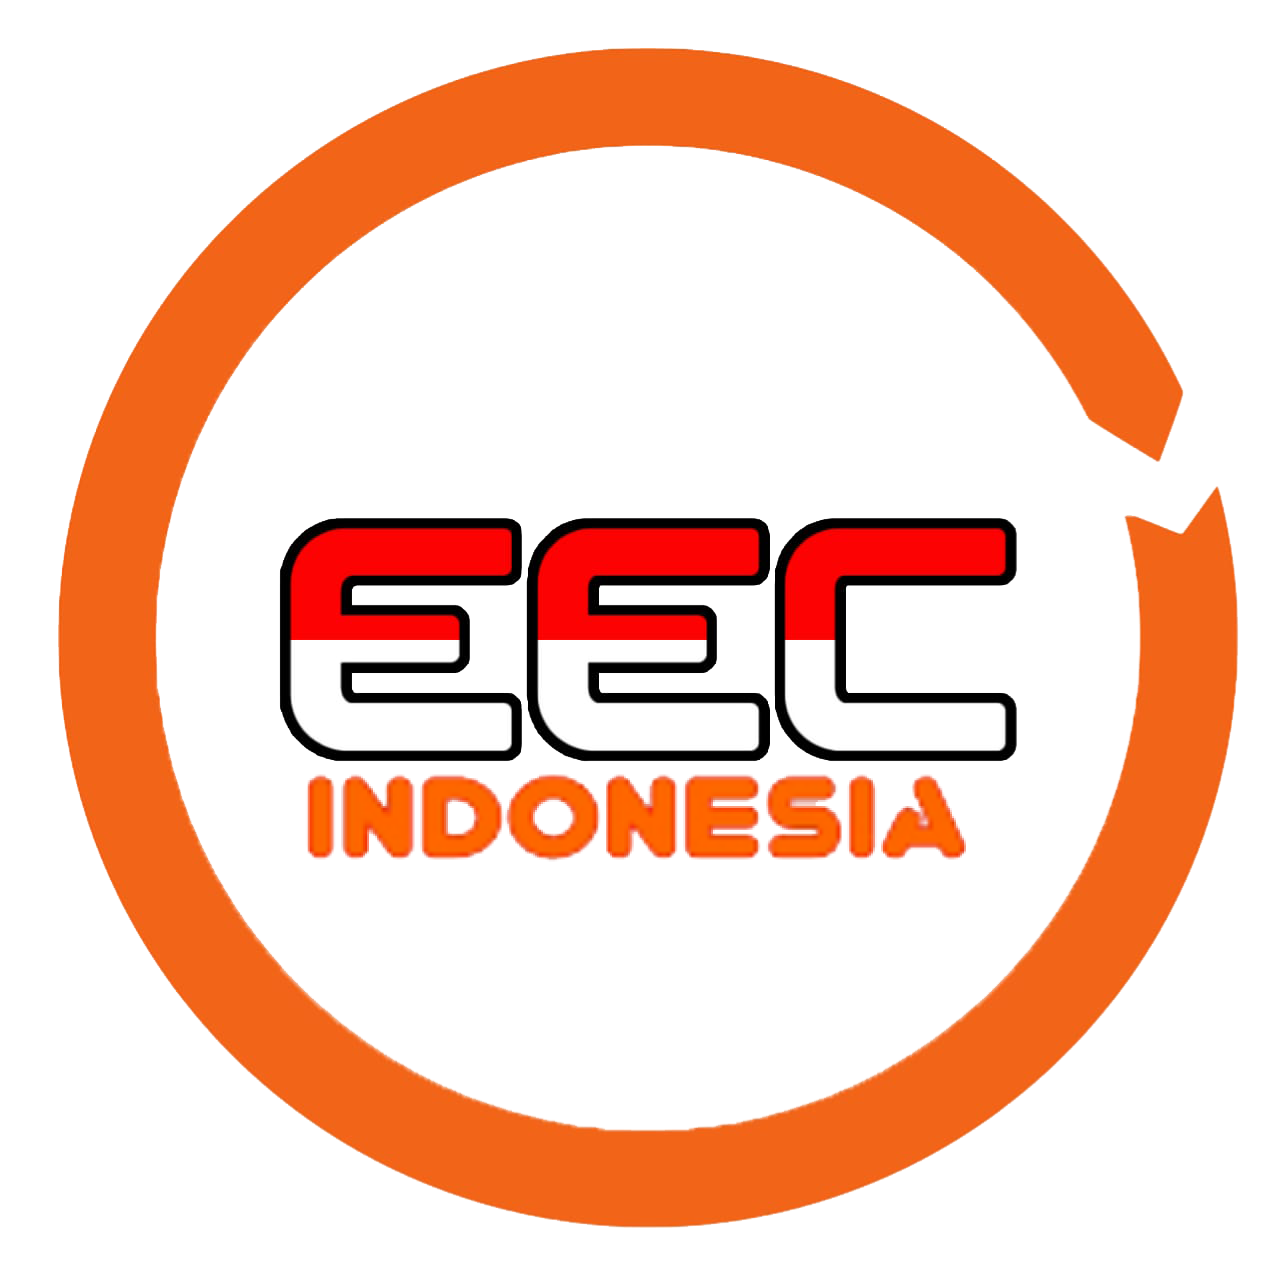
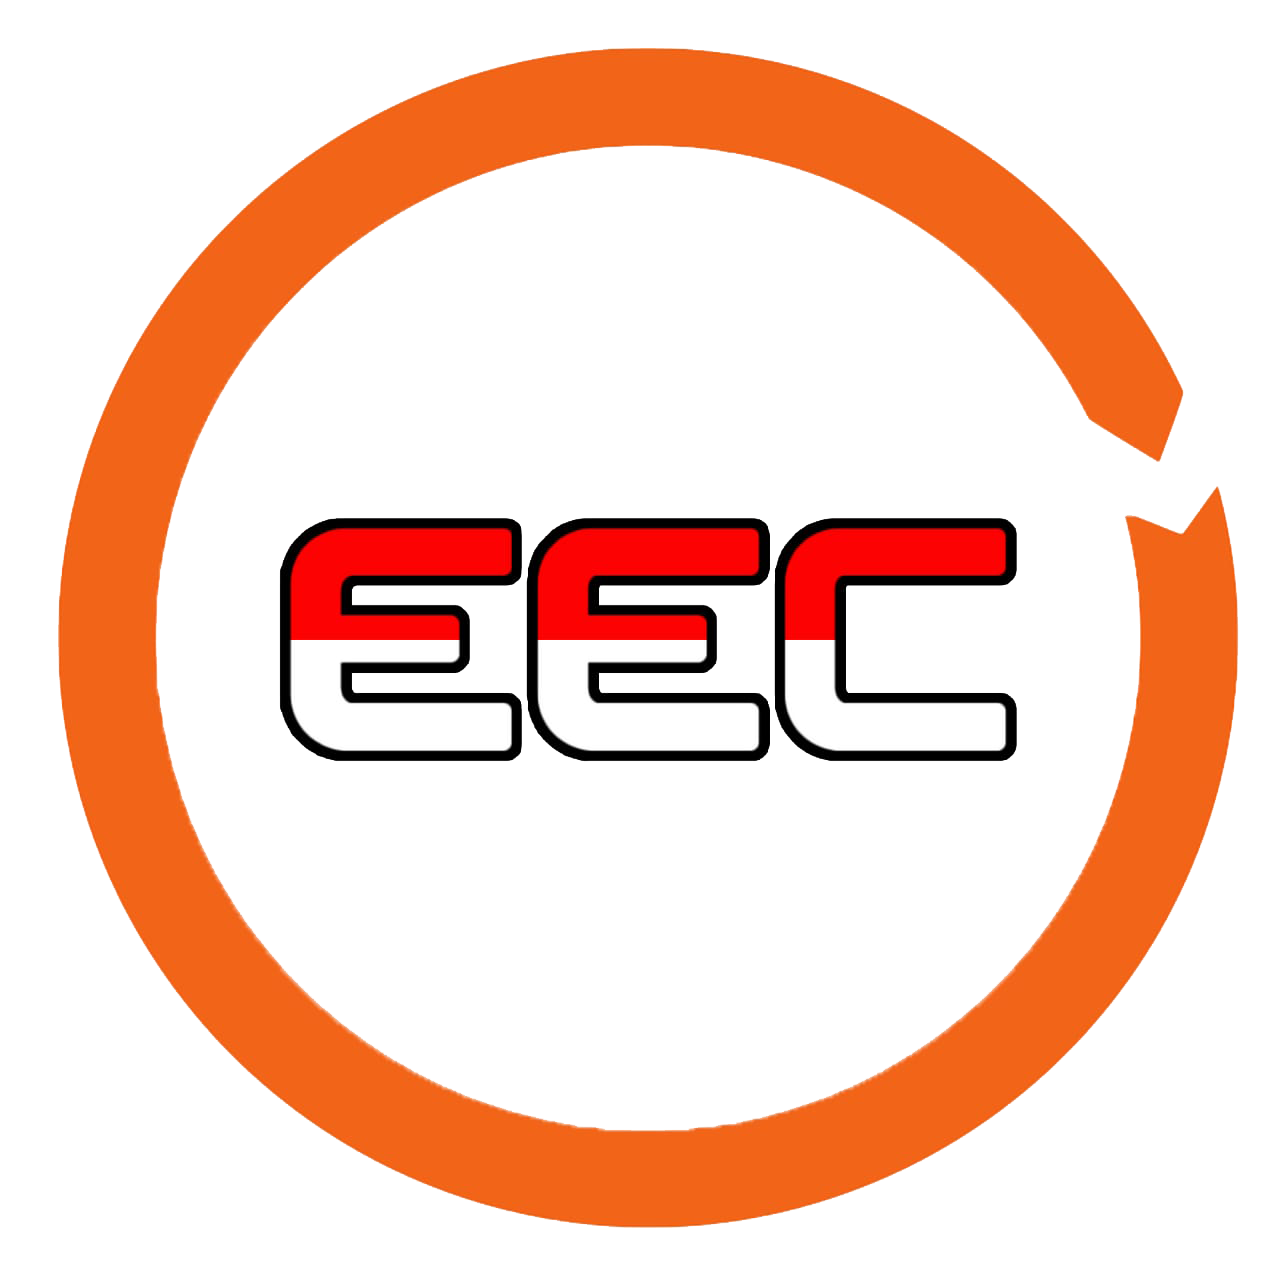
:children_crossing: cleaning up the landing page

Changed region(s): [[0.2188, 0.5938, 0.75, 0.6875]]

diff --git a/public/user/css/style.css b/public/user/css/style.css
@@ -110,5 +110,13 @@ select.distribution:not([size]):not([multiple]) {
 
 .logos{
     width: 150px;
-    height: 150px;
+    height: auto;
+}
+
+.backgrounds{
+    background-repeat: no-repeat;
+    background-size: cover;
+    height: 100%;
+    width: auto;
+    padding: 0;
 }

diff --git a/public/material/css/material-dashboard.css b/public/material/css/material-dashboard.css
@@ -11992,9 +11992,9 @@ fieldset[disabled] .form-group .form-control {
   top: 0;
   content: "";
 }
-.page-header:before {
+/* .page-header:before {
   background-color: rgba(0, 0, 0, 0.3);
-}
+} */
 
 html * {
   -webkit-font-smoothing: antialiased;

diff --git a/public/material/scss/material-dashboard/_headers.scss b/public/material/scss/material-dashboard/_headers.scss
@@ -77,7 +77,7 @@
         content: "";
     }
 
-    &:before{
-        background-color: rgba(0,0,0,.3);
-    }
+    // &:before{
+    //     background-color: rgba(0,0,0,.3);
+    // }
 }

diff --git a/resources/views/site/site.blade.php b/resources/views/site/site.blade.php
@@ -1,4 +1,4 @@
-@extends('layouts.app', ['activePage' => 'site', 'titlePage' => __('Detail Site')])
+@extends('layouts.app', ['activePage' => 'site', 'titlePage' => __('Site List')])
 
 @section('content')
   <div class="content">
@@ -26,23 +26,23 @@
                 <div class="card-footer d-flex">
                     <a title="view" href="inventory/{{$sts->site_id}}" class="btn btn-sm btn-info" >VIEW</a>
 
-                    <button title="delete" class="btn btn-sm btn-danger m-2" data-toggle="modal" data-target="#modalDeleteSite">
+                    {{-- <button title="delete" class="btn btn-sm btn-danger m-2" data-toggle="modal" data-target="#modalDeleteSite">
                       DELETE
-                    </button>
-                    {{-- <form action="/deleteSite/{{$sts->site_id}}" class="d-inline" method="POST">
+                    </button> --}}
+                    <form action="/deleteSite/{{$sts->site_id}}" class="d-inline" method="POST">
                       @method('DELETE')
                       @csrf
                       <button type="submit" class="btn btn-sm btn-danger m-2" title="delete" onclick="return confirm('Are you sure you want to delete')">
                         DELETE
                       </button>
-                    </form> --}}
+                    </form>
                     
+                  </div>
+                  
                 </div>
-  
-          </div>
-
-           {{-- Modal Confirmation--}}
-           <div class="modal fade" id="modalDeleteSite" tabindex="-1" role="dialog" aria-labelledby="exampleModalLabel" aria-hidden="true">
+                
+                {{-- Modal Confirmation--}}
+                {{-- <div class="modal fade" id="modalDeleteSite" tabindex="-1" role="dialog" aria-labelledby="exampleModalLabel" aria-hidden="true">
             <div class="modal-dialog" role="document">
               <div class="modal-content">
                 <div class="modal-header">
@@ -62,7 +62,7 @@
                 </div>
               </div>
             </div>
-          </div>
+          </div> --}}
 
         </div>
 

diff --git a/resources/views/Activity/cmActivity/cm_activity.blade.php b/resources/views/Activity/cmActivity/cm_activity.blade.php
@@ -13,11 +13,10 @@
             </div>
             <div class="card-body">
                 <div class="row">
-                  <div class="col-12 text-right">
-                    <a href="addPm" class="btn btn-sm btn-primary">
-                      <i class="material-icons">
-                        add
-                      </i>Add CM Schedule
+                  <div class="text_left">
+                    <a title="back" class="btn btn-sm btn-primary m-3" href="/expertActivity">
+                      <i class="material-icons">arrow_back</i>
+                      <div class="ripple-container"></div>
                     </a>
                   </div>
               </div>
@@ -44,12 +43,12 @@
                         <td>{{$cm->report_date_start}}</td>
                         <td>{{$cm->report_date_end}}</td>
                         <td class="td-actions text-right">
-                            {{-- <a rel="tooltip" class="btn btn-info " href="">
+                            <a rel="tooltip" class="btn btn-info " href="">
                               <i class="material-icons">visibility</i>
                               <div class="ripple-container"></div>
-                            </a> --}}
+                            </a>
                               
-                            <a rel="tooltip" class="btn btn-warning" href="">
+                            {{-- <a rel="tooltip" class="btn btn-warning" href="">
                               <i class="material-icons">edit</i>
                               <div class="ripple-container"></div>
                             </a>
@@ -61,7 +60,7 @@
                                   <i class="material-icons">delete</i>
                                   <div class="ripple-container"></div>
                                 </button>
-                              </form>
+                              </form> --}}
                         </td>
                       </tr>
                     @endforeach

diff --git a/resources/views/auth/login.blade.php b/resources/views/auth/login.blade.php
@@ -1,11 +1,8 @@
-@extends('layouts.app', ['class' => 'off-canvas-sidebar', 'activePage' => 'login', 'title' => __('Material Dashboard')])
+@extends('layouts.app', ['class' => 'off-canvas-sidebar', 'activePage' => 'login', 'title' => __('ERA ELEKTRA CORPORA INDONESIA')])
 
 @section('content')
 <div class="container" style="height: auto;">
   <div class="row align-items-center">
-    <div class="col-md-9 ml-auto mr-auto mb-3 text-center">
-      <h3>{{ __('Log in to see how you can speed up your web development with out of the box CRUD for #User Management and more.') }} </h3>
-    </div>
     <div class="col-lg-4 col-md-6 col-sm-8 ml-auto mr-auto">
       <form class="form" method="POST" action="{{ route('login') }}">
         @csrf
@@ -15,7 +12,7 @@
             <h4 class="card-title"><strong>{{ __('Login') }}</strong></h4>
           </div>
           <div class="card-body">
-            <p class="card-description text-center">{{ __('Or Sign in with ') }} <strong>admin@eecid.com</strong> {{ __(' and the password ') }}<strong>secret</strong> </p>
+            <p class="card-description text-center"><strong>{{ __('You Can Login as an Admin or an Expert') }}</strong></p>
             <div class="bmd-form-group{{ $errors->has('email') ? ' has-danger' : '' }}">
               <div class="input-group">
                 <div class="input-group-prepend">

diff --git a/resources/views/Activity/pm_activity/pm_activity.blade.php b/resources/views/Activity/pm_activity/pm_activity.blade.php
@@ -54,19 +54,20 @@
                             <i class="material-icons">visibility</i>
                             <div class="ripple-container"></div>
                           </a>
+
                             {{-- <a rel="tooltip" class="btn btn-warning" href="editPm/{{$pm->head_id}}">
                               <i class="material-icons">edit</i>
                               <div class="ripple-container"></div>
                             </a> --}}
                               
-                            <form method="POST" action="/deletePm/{{ $pm->head_id }}" class="d-inline">
+                            {{-- <form method="POST" action="/deletePm/{{ $pm->head_id }}" class="d-inline">
                               @csrf
                               @method('delete')
                               <button class="btn btn-danger " onclick="return confirm('Apakah anda yakin ingin menghapus data ini?')" >
                                 <i class="material-icons">delete</i>
                                 <div class="ripple-container"></div>
                               </button>
-                            </form>
+                            </form> --}}
                         </td>
                       </tr>
                     @endforeach

diff --git a/resources/views/layouts/footers/guest.blade.php b/resources/views/layouts/footers/guest.blade.php
@@ -1,7 +1,7 @@
 <footer class="footer">
     <div class="container">
         <nav class="float-left">
-        <ul>
+        {{-- <ul>
             <li>
             <a href="https://www.creative-tim.com">
                 {{ __('Creative Tim') }}
@@ -22,14 +22,13 @@
                 {{ __('Licenses') }}
             </a>
             </li>
-        </ul>
+        </ul> --}}
         </nav>
-        <div class="copyright float-right">
+        <div class="copyright">
         &copy;
         <script>
             document.write(new Date().getFullYear())
-        </script>, made with <i class="material-icons">favorite</i> by
-        <a href="https://www.creative-tim.com" target="_blank">Creative Tim</a> and <a href="https://www.updivision.com" target="_blank">UPDIVISION</a> for a better web.
+        </script> Era Elektra Corpora Indonesia
         </div>
     </div>
 </footer>

diff --git a/resources/views/layouts/navbars/navs/guest.blade.php b/resources/views/layouts/navbars/navs/guest.blade.php
@@ -4,7 +4,7 @@
     <div class="navbar-wrapper">
       <a class="navbar-brand" href="{{ route('home') }}">{{ $title }}</a>
     </div>
-    <button class="navbar-toggler" type="button" data-toggle="collapse" aria-controls="navigation-index" aria-expanded="false" aria-label="Toggle navigation">
+    {{-- <button class="navbar-toggler" type="button" data-toggle="collapse" aria-controls="navigation-index" aria-expanded="false" aria-label="Toggle navigation">
       <span class="sr-only">Toggle navigation</span>
       <span class="navbar-toggler-icon icon-bar"></span>
       <span class="navbar-toggler-icon icon-bar"></span>
@@ -34,6 +34,6 @@
         </li>
       </ul>
     </div>
-  </div>
+  </div> --}}
 </nav>
 <!-- End Navbar -->

diff --git a/resources/views/layouts/page_templates/guest.blade.php b/resources/views/layouts/page_templates/guest.blade.php
@@ -1,6 +1,6 @@
 @include('layouts.navbars.navs.guest')
 <div class="wrapper wrapper-full-page">
-  <div class="page-header login-page header-filter" filter-color="black" style="background-image: url('{{ asset('material') }}/img/login.jpg'); background-size: cover; background-position: top center;align-items: center;" data-color="purple">
+  <div class="backgrounds login-page page-header" filter-color="black" style="background-image: url('{{ asset('user') }}/img/background.jpg');  background-position: bottom ;align-items: center;" data-color="purple">
   <!--   you can change the color of the filter page using: data-color="blue | purple | green | orange | red | rose " -->
     @yield('content')
     @include('layouts.footers.guest')

diff --git a/resources/views/layouts/app.blade.php b/resources/views/layouts/app.blade.php
@@ -7,7 +7,7 @@
     <meta name="csrf-token" content="{{ csrf_token() }}">
     <title>{{ isset($titlePage) ? $titlePage." |" : "" }} EECID</title>
     <link rel="apple-touch-icon" sizes="76x76" href="{{ asset('material') }}/img/apple-icon.png">
-    <link rel="icon" type="image/png" href="{{ asset('material') }}/img/favicon.png">
+    <link rel="icon" type="image/png" href="{{ asset('user') }}/img/eecidfix.png">
     <meta content='width=device-width, initial-scale=1.0, maximum-scale=1.0, user-scalable=0, shrink-to-fit=no' name='viewport' />
     <!--     Fonts and icons     -->
     <link rel="stylesheet" type="text/css" href="https://fonts.googleapis.com/css?family=Roboto:300,400,500,700|Roboto+Slab:400,700|Material+Icons" />

diff --git a/resources/views/auth/passwords/email.blade.php b/resources/views/auth/passwords/email.blade.php
@@ -1,4 +1,4 @@
-@extends('layouts.app', ['class' => 'off-canvas-sidebar', 'activePage' => 'email', 'title' => __('Material Dashboard')])
+@extends('layouts.app', ['class' => 'off-canvas-sidebar', 'activePage' => 'email', 'title' => __('ERA ELEKTRA CORPORA INDONESIA')])
 
 @section('content')
 <div class="container" style="height: auto;">
@@ -12,6 +12,7 @@
             <h4 class="card-title"><strong>{{ __('Forgot Password') }}</strong></h4>
           </div>
           <div class="card-body">
+            <p class="card-description text-center"><strong>{{ __('Fill Your Email Here') }}</strong></p>
             @if (session('status'))
               <div class="row">
                 <div class="col-sm-12">
